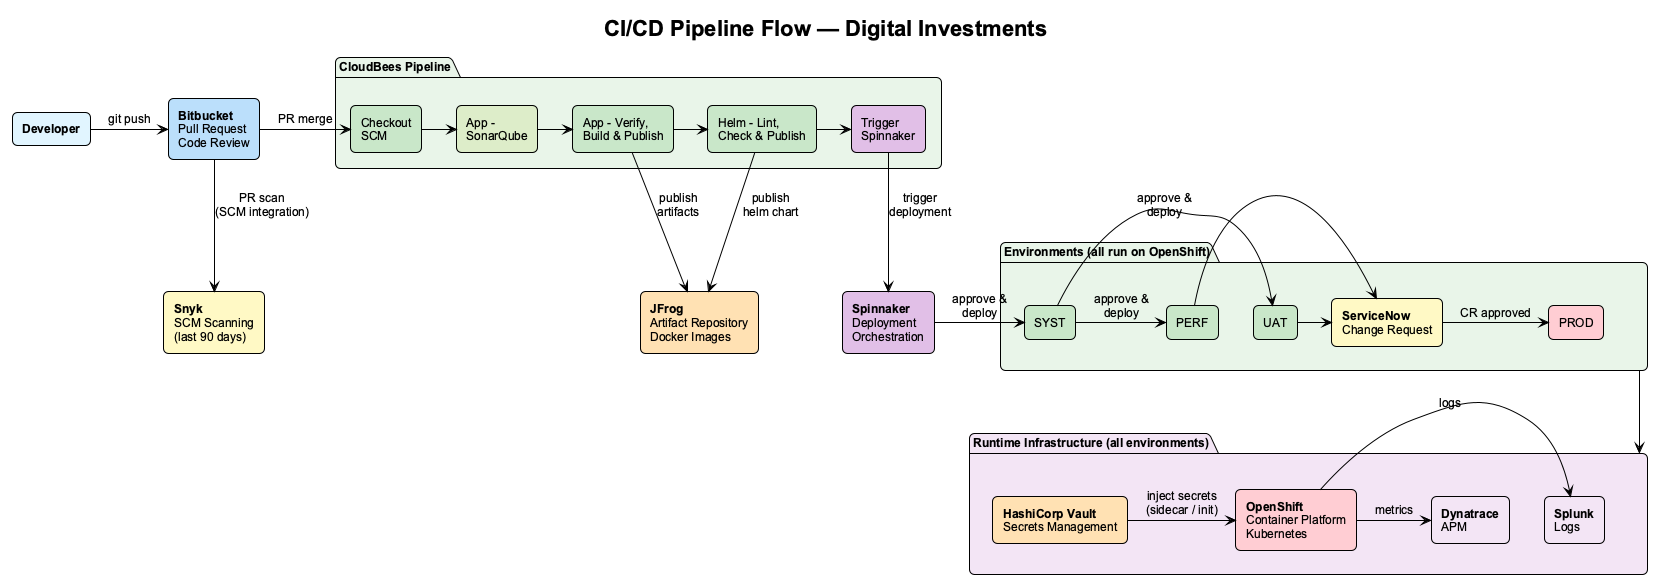
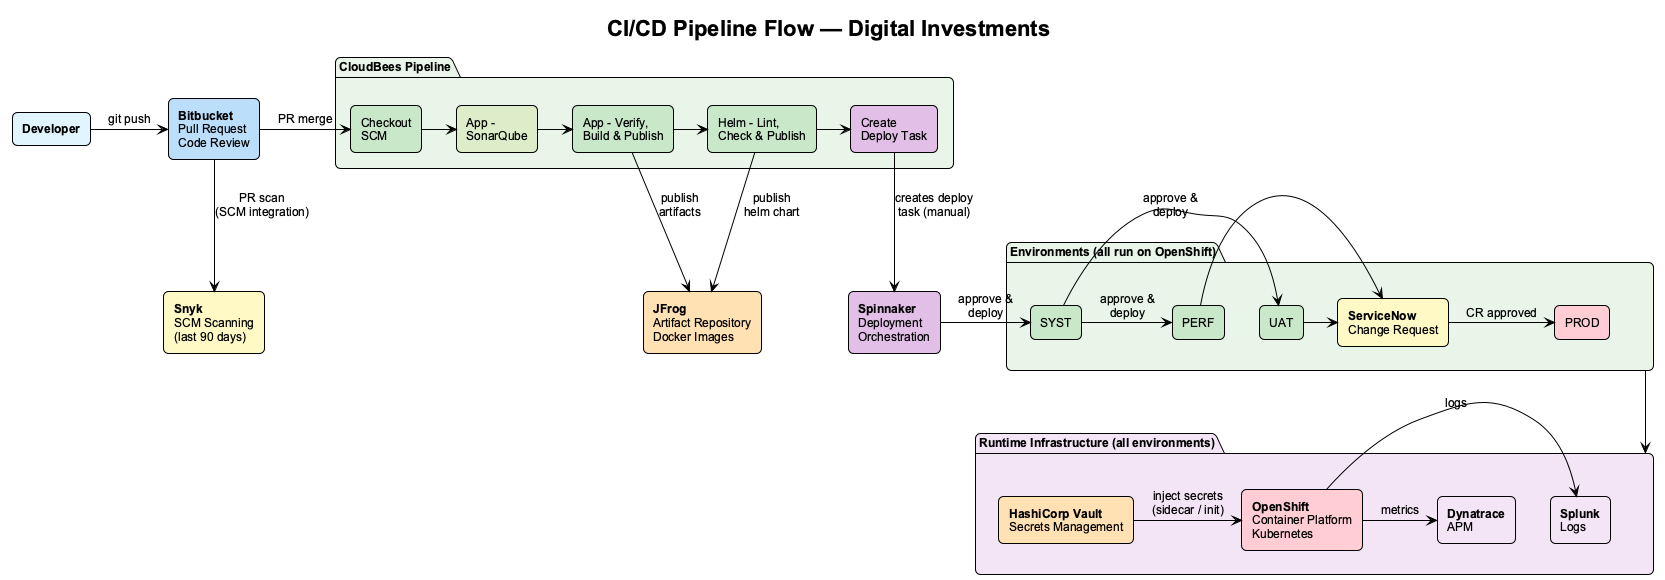
Clarify CloudBees creates deploy task, not auto-trigger
- CloudBees creates a Spinnaker deployment task as final pipeline stage
- Developer manually triggers deployment when ready
- Update pipeline diagram, stage descriptions, and Spinnaker tool details

diff --git a/docs/NEW-JOINER-DEV-TOOLS-SETUP.md b/docs/NEW-JOINER-DEV-TOOLS-SETUP.md
@@ -73,7 +73,7 @@ main (or develop)
 | 3. Push & PR | Push branch to Bitbucket, create a Pull Request |
 | 4. Code review | At least _TODO: Add number_ approvals required |
 | 5. Merge | Squash merge into `develop` |
-| 6. Deploy | CloudBees triggers Spinnaker — approve & deploy to SYST |
+| 6. Deploy | CloudBees creates a Spinnaker deploy task — developer manually triggers deployment to SYST |
 
 ### PR Best Practices
 
@@ -107,7 +107,7 @@ main (or develop)
 | ↳ SonarQube | Code quality analysis & quality gate (CloudBees stage) | Build |
 | ↳ JFrog Artifactory | Artifact & Helm chart repository (CloudBees publishes here) | Build |
 | ↳ Helm | Chart linting, deprecation check & publish (CloudBees stages) | Build |
-| ↳ Spinnaker | Deployment orchestration (triggered by CloudBees) | Deploy |
+| ↳ Spinnaker | Deployment orchestration (CloudBees creates task, developer triggers manually) | Deploy |
 | OpenShift | Container platform (runtime) | Run |
 | HashiCorp Vault | Secrets management (API keys, credentials, certificates) | Run |
 | Splunk | Log aggregation & search | Monitor |
@@ -178,7 +178,7 @@ _TODO: Add Bitbucket instance URL_
 ### 2. CloudBees
 
 **What is it?**
-CloudBees is our CI/CD platform built on Jenkins. It orchestrates the **entire build-to-deploy flow** — from code checkout through to triggering Spinnaker deployment.
+CloudBees is our CI/CD platform built on Jenkins. It orchestrates the **entire build flow** — from code checkout through to creating a Spinnaker deployment task. Deployment is then **manually triggered** by the developer.
 
 **URL:**
 _TODO: Add CloudBees instance URL_
@@ -200,7 +200,7 @@ The CloudBees pipeline runs the following stages in order on PR merge:
 | 4 | **Helm - Lint** | Validates Helm chart syntax | ~18s |
 | 5 | **Helm - Deprecation Check** | Checks for deprecated Helm APIs | ~1s |
 | 6 | **Helm - Publish** | Publishes Helm chart to JFrog | ~2s |
-| 7 | **Spinnaker** | Triggers the Spinnaker deployment pipeline | ~10s |
+| 7 | **Spinnaker** | Creates a deployment task in Spinnaker (developer triggers manually) | ~10s |
 | 8 | **archiveArtifacts** | Archives build artifacts for reference | <1s |
 | 9 | **Workspace Cleanup** | Cleans up the build workspace | ~1s |
 
@@ -209,7 +209,7 @@ The CloudBees pipeline runs the following stages in order on PR merge:
 - **Pipeline Triggers:** _TODO: Describe when pipelines run (e.g., on every PR, on merge to master)_
 - **Build Notifications:** _TODO: Add where build notifications go (e.g., Teams channel, email)_
 - If a stage fails, the pipeline stops — check the **console output** in CloudBees for error details before reaching out
-- The **Spinnaker stage** means deployment is triggered automatically by CloudBees — you don't need to manually trigger Spinnaker
+- The **Spinnaker stage** creates a deployment task — you must **manually trigger** the deployment in Spinnaker when ready
 
 **Useful Links:**
 - _TODO: Add links to Jenkinsfile location, pipeline documentation_
@@ -308,7 +308,7 @@ _TODO: Add Snyk website/dashboard URL_
 ### 6. Spinnaker
 
 **What is it?**
-Spinnaker is our deployment orchestration tool. It manages deployments across environments (SYST, UAT, PERF, PROD) with approval gates and rollback capabilities. Spinnaker is **triggered automatically by CloudBees** as the final pipeline stage — you do not need to trigger it manually.
+Spinnaker is our deployment orchestration tool. It manages deployments across environments (SYST, UAT, PERF, PROD) with approval gates and rollback capabilities. CloudBees creates a deployment task in Spinnaker as the final pipeline stage — the developer then **manually triggers** the deployment when ready.
 
 **URL:**
 _TODO: Add Spinnaker instance URL_
@@ -321,7 +321,7 @@ _TODO: Add Spinnaker instance URL_
 **Key Things to Know:**
 - **Team Application:** _TODO: Add application name in Spinnaker_
 - **Environments:** SYST → UAT + PERF (simultaneous) → CR in ServiceNow → PROD
-- **How it's triggered:** CloudBees pipeline triggers Spinnaker after successful build, test, and Helm chart publish
+- **How it works:** CloudBees creates a deploy task after successful build, test, and Helm chart publish — developer manually triggers the deployment
 - **Deployment Flow:** SYST (approve & deploy) → UAT + PERF (approve & deploy, simultaneous) → PROD (requires approved CR in ServiceNow)
 - Production deployments require an approved **Change Request (CR)** in ServiceNow before Spinnaker will proceed
 - Familiarise yourself with the rollback process before deploying
